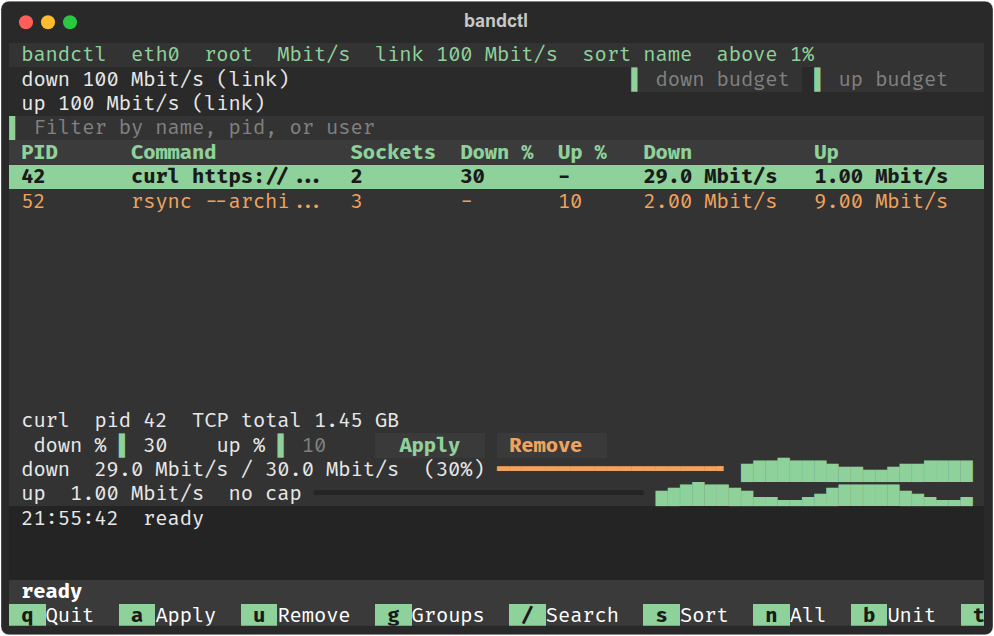
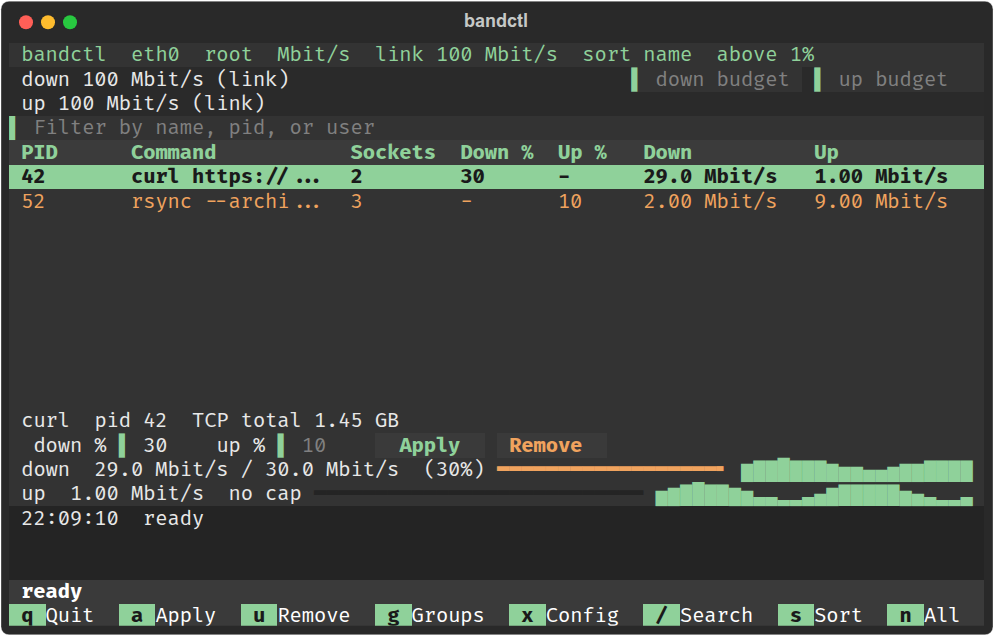
Add settings file controls to the TUI

Changed region(s): [[0.6549, 0.9261, 0.998, 0.9858], [0.5302, 0.956, 0.6237, 0.9858], [0.0312, 0.8066, 0.1247, 0.8365]]

diff --git a/bandctl/app.py b/bandctl/app.py
@@ -32,6 +32,7 @@ from bandctl.rates import (
     percent_to_bps,
 )
 from bandctl.shaper import Shaper, ShaperError
+from bandctl.settings_screen import SettingsScreen
 from bandctl.rules import AutoRule, RuleTracker, ScheduledOwnership
 from bandctl.traffic import TrafficSampler, above_share, read_ss
 from bandctl.widgets import RootRequired, RulesScreen
@@ -81,6 +82,7 @@ class BandctlApp(App):
         Binding("a", "apply_limit", "Apply"),
         Binding("u", "remove_limit", "Remove"),
         Binding("g", "edit_groups", "Groups"),
+        Binding("x", "edit_settings", "Config"),
         Binding("slash", "focus_filter", "Search", key_display="/"),
         Binding("s", "cycle_sort", "Sort"),
         Binding("n", "toggle_all", "All"),
@@ -228,9 +230,9 @@ class BandctlApp(App):
         return f"sudo {sys.executable} -m bandctl{extra}"
 
     def check_action(self, action: str, parameters: tuple[object, ...]) -> bool | None:
-        if self.is_mounted and self.screen_stack and isinstance(self.screen, (RootRequired, RulesScreen, GroupsScreen)):
+        if self.is_mounted and self.screen_stack and isinstance(self.screen, (RootRequired, RulesScreen, GroupsScreen, SettingsScreen)):
             if action in {"quit", "apply_limit", "remove_limit", "focus_filter", "cycle_sort", "toggle_all",
-                          "toggle_unit", "edit_rules", "edit_groups", "refresh_now", "focus_table"}:
+                          "toggle_unit", "edit_rules", "edit_groups", "edit_settings", "refresh_now", "focus_table"}:
                 return False
         return super().check_action(action, parameters)
 
@@ -241,13 +243,13 @@ class BandctlApp(App):
         if size is not None:
             self._width = size.width
             self._height = size.height
-        if self.is_mounted and self.screen_stack and not isinstance(self.screen, (RootRequired, RulesScreen, GroupsScreen)):
+        if self.is_mounted and self.screen_stack and not isinstance(self.screen, (RootRequired, RulesScreen, GroupsScreen, SettingsScreen)):
             self._render()
 
     def _on_screen_size(self, _old, new) -> None:
         self._width = new.width
         self._height = new.height
-        if self.is_mounted and self.screen_stack and not isinstance(self.screen, (RootRequired, RulesScreen, GroupsScreen)):
+        if self.is_mounted and self.screen_stack and not isinstance(self.screen, (RootRequired, RulesScreen, GroupsScreen, SettingsScreen)):
             self._render()
 
     def _dims(self) -> tuple[int, int]:
@@ -274,7 +276,7 @@ class BandctlApp(App):
             self.action_remove_limit()
 
     def on_data_table_row_highlighted(self, event: DataTable.RowHighlighted) -> None:
-        if (not self.screen_stack or isinstance(self.screen, (RootRequired, RulesScreen, GroupsScreen))
+        if (not self.screen_stack or isinstance(self.screen, (RootRequired, RulesScreen, GroupsScreen, SettingsScreen))
                 or event.data_table.id != "procs"):
             return
         try:
@@ -291,7 +293,7 @@ class BandctlApp(App):
     def on_key(self, event) -> None:
         # Enter in the table applies. Enter inside a percent field is handled
         # by Input.Submitted, and a click only moves the highlight.
-        if (event.key == "enter" and not isinstance(self.screen, (RootRequired, RulesScreen, GroupsScreen))
+        if (event.key == "enter" and not isinstance(self.screen, (RootRequired, RulesScreen, GroupsScreen, SettingsScreen))
                 and self.focused is self.query_one("#procs", DataTable)):
             self.action_apply_limit()
 
@@ -361,6 +363,31 @@ class BandctlApp(App):
             self._note("groups updated")
             self.action_refresh_now()
 
+    def action_edit_settings(self) -> None:
+        if not self.is_root:
+            self._note("not running as root. " + self.sudo_command(), bad=True)
+            return
+        if self._busy:
+            self._note("refresh in progress; try again")
+            return
+        if self.shaper is None:
+            self._note("no interface to shape", bad=True)
+            return
+        self.push_screen(SettingsScreen(self.shaper, self.iface, self._detected_bps,
+                                        self._down_budget, self._up_budget, self._rules, self._procs),
+                         self._settings_closed)
+
+    def _settings_closed(self, settings) -> None:
+        if settings is None:
+            return
+        self._rules = list(settings.rules)
+        self._down_budget, self._up_budget = settings.down_budget, settings.up_budget
+        self._write_budget_inputs()
+        self._pushed_caps = self._effective_caps()
+        self._note("settings imported")
+        self._render()
+        self.action_refresh_now()
+
     def action_apply_limit(self) -> None:
         if not self.is_root:
             self._note("not running as root. " + self.sudo_command(), bad=True)
@@ -420,7 +447,7 @@ class BandctlApp(App):
         self._render()
 
     async def _refresh(self) -> None:
-        if self._busy or isinstance(self.screen, (RootRequired, RulesScreen, GroupsScreen)):
+        if self._busy or isinstance(self.screen, (RootRequired, RulesScreen, GroupsScreen, SettingsScreen)):
             return
         self._busy = True
         try:

diff --git a/bandctl/settings_screen.py b/bandctl/settings_screen.py
@@ -1,0 +1,61 @@
+"""Explicit import and export of session settings."""
+
+from __future__ import annotations
+
+from textual.app import ComposeResult
+from textual.containers import Horizontal, Vertical
+from textual.screen import ModalScreen
+from textual.widgets import Button, Input, Static
+
+from bandctl.settings_session import export_session, import_session
+
+
+class SettingsScreen(ModalScreen):
+    BINDINGS = [("escape", "close", "Close")]
+
+    def __init__(self, shaper, iface, detected_bps, down_budget, up_budget, rules, processes):
+        super().__init__()
+        self.shaper, self.iface, self.detected_bps = shaper, iface, detected_bps
+        self.down_budget, self.up_budget = down_budget, up_budget
+        self.rules, self.processes = list(rules), list(processes)
+
+    def compose(self) -> ComposeResult:
+        yield Vertical(
+            Static("Settings file", id="settings-title"),
+            Static("Enter a file path, then choose Import or Export.", id="settings-help"),
+            Input(placeholder="file path", id="settings-path"),
+            Static("", id="settings-status"),
+            Horizontal(Button("Import", id="settings-import"), Button("Export", id="settings-export"),
+                       Button("Close", id="settings-close"), id="settings-buttons"),
+            id="settings-dialog",
+        )
+
+    def on_mount(self) -> None:
+        self.query_one("#settings-path", Input).focus()
+
+    def _status(self, message: str, bad: bool = False) -> None:
+        status = self.query_one("#settings-status", Static)
+        status.set_class(bad, "-error")
+        status.update(message)
+
+    def on_button_pressed(self, event: Button.Pressed) -> None:
+        action = event.button.id
+        if action == "settings-close":
+            self.action_close()
+            return
+        path = self.query_one("#settings-path", Input).value.strip()
+        if not path:
+            self._status("Enter a file path", bad=True)
+            return
+        try:
+            if action == "settings-export":
+                export_session(path, self.shaper, self.iface, self.down_budget, self.up_budget, self.rules)
+                self._status("Settings exported")
+            elif action == "settings-import":
+                settings = import_session(path, self.shaper, self.iface, self.detected_bps, self.processes)
+                self.dismiss(settings)
+        except ValueError as exc:
+            self._status(str(exc), bad=True)
+
+    def action_close(self) -> None:
+        self.dismiss(None)

diff --git a/tests/test_settings_screen.py b/tests/test_settings_screen.py
@@ -1,0 +1,50 @@
+"""Settings controls through a headless Textual pilot."""
+import tempfile
+import unittest
+from pathlib import Path
+
+from textual.widgets import Input, Static
+
+from bandctl.rules import AutoRule
+from bandctl.settings_screen import SettingsScreen
+from test_group_screen import group_app
+
+
+class SettingsScreenTests(unittest.IsolatedAsyncioTestCase):
+    async def test_export_then_import_rules_and_budget(self):
+        app, shaper, host = group_app()
+        app._rules = [AutoRule("work", 20, None)]
+        with tempfile.TemporaryDirectory() as directory:
+            path = Path(directory) / "settings.json"
+            async with app.run_test(size=(80, 24)) as pilot:
+                app._down_budget = 90_000_000
+                app._write_budget_inputs()
+                await pilot.press("x")
+                self.assertIsInstance(app.screen, SettingsScreen)
+                app.screen.query_one("#settings-path", Input).value = str(path)
+                await pilot.click("#settings-export")
+                self.assertTrue(path.is_file())
+                await pilot.press("escape")
+                app._rules = []
+                app._down_budget = 40_000_000
+                app._write_budget_inputs()
+                await pilot.press("x")
+                app.screen.query_one("#settings-path", Input).value = str(path)
+                await pilot.click("#settings-import")
+                await pilot.pause()
+                self.assertEqual(app._rules, [AutoRule("work", 20, None)])
+                self.assertEqual(app._down_budget, 90_000_000)
+
+    async def test_invalid_import_leaves_session_unchanged(self):
+        app, shaper, host = group_app()
+        with tempfile.TemporaryDirectory() as directory:
+            path = Path(directory) / "bad.json"
+            path.write_text('{"version": 1}')
+            async with app.run_test(size=(60, 20)) as pilot:
+                app._rules = [AutoRule("work", 20, None)]
+                await pilot.press("x")
+                app.screen.query_one("#settings-path", Input).value = str(path)
+                await pilot.click("#settings-import")
+                self.assertIsInstance(app.screen, SettingsScreen)
+                self.assertIn("invalid", str(app.screen.query_one("#settings-status", Static).render()))
+                self.assertEqual(app._rules, [AutoRule("work", 20, None)])

diff --git a/README.md b/README.md
@@ -14,6 +14,9 @@ bandctl/
   app.py         Textual screens, keys, and the 1 second refresh
   widgets.py     the not-root dialog and the rule editor
   group_screen.py  the shared-limit editor
+  settings_screen.py  explicit settings import and export
+  settings.py    settings format and validation
+  settings_session.py  session import and export
   groups.py      group validation and active group view
   history.py     the one-minute rate history behind the graphs
   rules.py       auto-apply rule matching and ownership
@@ -120,6 +123,7 @@ Keys:
 | `b` | Toggle Mbit/s and MB/s |
 | `t` | Edit auto-apply rules |
 | `g` | Edit shared limits |
+| `x` | Import or export settings |
 | `q` | Quit and remove every rule this process installed |
 
 The log under the bars keeps the last successes and failures. A failed `tc`, `nft`, or cgroup write is one line there and in the status bar. The previous share is left in place when an update fails. A brand new share is rolled back, and the empty cgroup made for it is removed. If Remove cannot put a running process back in its old cgroup, the share stays listed so you can try again. A process that has already exited is dropped.
@@ -127,6 +131,8 @@ The log under the bars keeps the last successes and failures. A failed `tc`, `nf
 Press `t` to add or delete auto-apply rules. Enter part of a process name and a download percent, an upload percent, or both, then press Enter or Add. Optionally enter daily start and end times in `HH:MM`. The limit is removed when the window ends. Matching ignores case, and the first active matching rule wins. Rules need root, like Apply. Rules apply to matching running processes and new processes while bandctl is open. Existing limits are left alone. A manual change takes precedence for that process instance. Rules are kept for this session only and are cleared on exit. The log reports failures and retries them after 15 seconds.
 
 Press `g` to create a named shared limit. Enter a name, comma-separated PIDs, and one or both percentages, then choose Create. The processes must be running and have no existing limit. Their combined traffic shares one ceiling in each direction. Select a group row to fill its name and percentages, then choose Update to change its limits. To add a process, enter its PID and choose Add. Use Remove on the main screen to remove one member; the group ends when its last member is removed. Group members show the group name in the detail line. The bars show the selected process's rate against the shared ceiling, not the combined group rate. Groups last for the session only.
+
+Press `x` to import or export settings as JSON. Export includes the interface, submitted budgets, auto-apply rules and schedules, and groups. It replaces the chosen file and makes it readable only by its owner. Import checks the entire file before applying it. It replaces the current rules, budgets, and groups, while leaving individual limits in place. An imported group cannot use a PID that already has an individual limit. Group members must still be the same running processes on the same boot. The file's interface must match the interface bandctl is using; restart with `--iface` to use a different one. Rules and groups are loaded only when you choose Import.
 
 Full steps and the manual check with a real download are in [docs/USAGE.md](docs/USAGE.md) and [docs/TESTING.md](docs/TESTING.md).
 
@@ -192,3 +198,7 @@ A search for `resolve` finds `systemd-resolved` even though it is idle and below
 The shared-limit editor at 80 by 24.
 
 ![Shared limits at 80x24](docs/screenshots/groups-80x24.png)
+
+The settings file controls at 80 by 24.
+
+![Settings file at 80x24](docs/screenshots/settings-80x24.png)

diff --git a/docs/ARCHITECTURE.md b/docs/ARCHITECTURE.md
@@ -4,7 +4,7 @@ bandctl is a Textual app in front of one `Shaper` object. The app never shells o
 
 ## Settings interchange
 
-`settings.py` parses and validates a versioned JSON settings format before returning it. It includes the interface, budgets in bits per second, automatic rules with optional daily windows, and group members with PID start times and the boot ID, so an importer can reject identities from another boot. It rejects duplicate or unknown fields and overlapping groups. File reads are bounded and validated before returning. Exports replace the destination atomically with a private file. A session snapshot omits process arguments. The shaper returns locked copies of shares so a snapshot does not change during an update. A separate preflight checks the interface, boot ID, and every group member identity without changing the shaper. A group change plan identifies members to keep, add, or remove and rejects conflicts with individual limits. The shaper can replace group membership under its lock after verifying the boot, interface, process identities, and capacity. It restores the prior shares after an error where possible and reports an incomplete rollback. `settings_session.py` exports a snapshot and validates an import before asking the shaper to replace groups. It returns imported rules and budgets only after that succeeds. Import controls are still under development. Process arguments are not included.
+`settings.py` parses and validates a versioned JSON settings format before returning it. It includes the interface, budgets in bits per second, automatic rules with optional daily windows, and group members with PID start times and the boot ID, so an importer can reject identities from another boot. It rejects duplicate or unknown fields and overlapping groups. File reads are bounded and validated before returning. Exports replace the destination atomically with a private file. A session snapshot omits process arguments. The shaper returns locked copies of shares so a snapshot does not change during an update. A separate preflight checks the interface, boot ID, and every group member identity without changing the shaper. A group change plan identifies members to keep, add, or remove and rejects conflicts with individual limits. The shaper can replace group membership under its lock after verifying the boot, interface, process identities, and capacity. It restores the prior shares after an error where possible and reports an incomplete rollback. `settings_session.py` exports a snapshot and validates an import before asking the shaper to replace groups. It returns imported rules and budgets only after that succeeds. The settings screen uses this service and commits rules and budgets only after the shaper succeeds. The file interface must match the active shaper interface. Process arguments are not included.
 
 ## Shares
 

diff --git a/docs/USAGE.md b/docs/USAGE.md
@@ -71,6 +71,12 @@ Press `g` to open shared limits. Enter a name, a comma-separated list of running
 
 To remove one member, close the editor, select that process in the main table, and press `u` or Remove. The other members keep their shared ceiling. The group disappears when its last member is removed. A process must leave its group before it can receive an individual limit. The selected process's detail line names its group. Its bars compare that process's measured rate with the group's ceiling; they do not show the group's combined rate. Groups last until bandctl exits.
 
+## Import and export settings
+
+Press `x`, enter a path, and choose Export to write a JSON settings file. Submit any budget edits first. The file contains the interface, budgets in bits per second, auto-apply rules and schedules, and group definitions. It does not contain process command lines or individual limits. Export replaces the destination with a file readable only by its owner.
+
+Choose Import to load a file. bandctl validates all fields before changing settings. Imported rules, budgets, and groups replace the current ones. Individual limits remain; an imported group cannot claim a process with an individual limit. Group members are identified by PID, start time, and boot ID. If a member has exited, its PID was reused, or the machine has rebooted, the import is refused. The interface in the file must match the current interface. Restart bandctl with `--iface` for that interface before importing. A shaper error can prevent import; if rollback also fails, the error reports that it is incomplete. Settings are never loaded automatically.
+
 ## Auto-apply rules
 
 Press `t` to open the rule editor. Enter part of a process name and one or both percentages, then press Enter or choose Add. Rules match process names without regard to case. They do not match command arguments. The editor needs root, like Apply. The first active matching rule wins. Select a rule and choose Delete to remove it, or Close to return to the process list. Rules last until bandctl exits.

diff --git a/docs/TESTING.md b/docs/TESTING.md
@@ -15,6 +15,7 @@ python3 -m venv .venv
 | `tests/test_rates.py` | Percent parsing (rejects 0, 101, and junk). 30% of 100 Mbit/s is 30 Mbit/s and 3.75 MB/s. Over-commit keeps the ceils and shrinks the rates. |
 | `tests/test_history.py` | One-minute rate history, missing samples, process removal, and peak grouping for narrow graphs. |
 | `tests/test_traffic.py` socket accounting | Individual socket deltas, new sockets, resets, sample gaps, PID totals, and retention of idle processes. |
+| `tests/test_settings_screen.py` | Export and import through the TUI, plus rejection of an invalid file without changing the session. |
 | `tests/test_settings_session.py` | Session export and import against a fake host, including invalid files, missing processes, and shaper failures. |
 | `tests/test_settings.py` | Settings round trips, atomic private file writes, bounded reads, and rejection of invalid fields, schedules, budgets, process identities, boot IDs, overlapping groups, session snapshots, import target checks, and group membership change plans. |
 | `tests/test_groups.py` | Group name, share, and membership validation, including duplicate names and processes, and the active group view. |

diff --git a/CHANGELOG.md b/CHANGELOG.md
@@ -2,6 +2,8 @@
 
 ## Unreleased
 
+- Import and export rules, schedules, budgets, and groups as a JSON settings file with `x`. Group process identities are checked before import.
+
 - Named groups can share one download and upload ceiling. Press `g` to create and edit groups or add a process. Remove a member from the main table.
 
 - Each process has a one-minute graph of its download and upload rates beside the bars.
